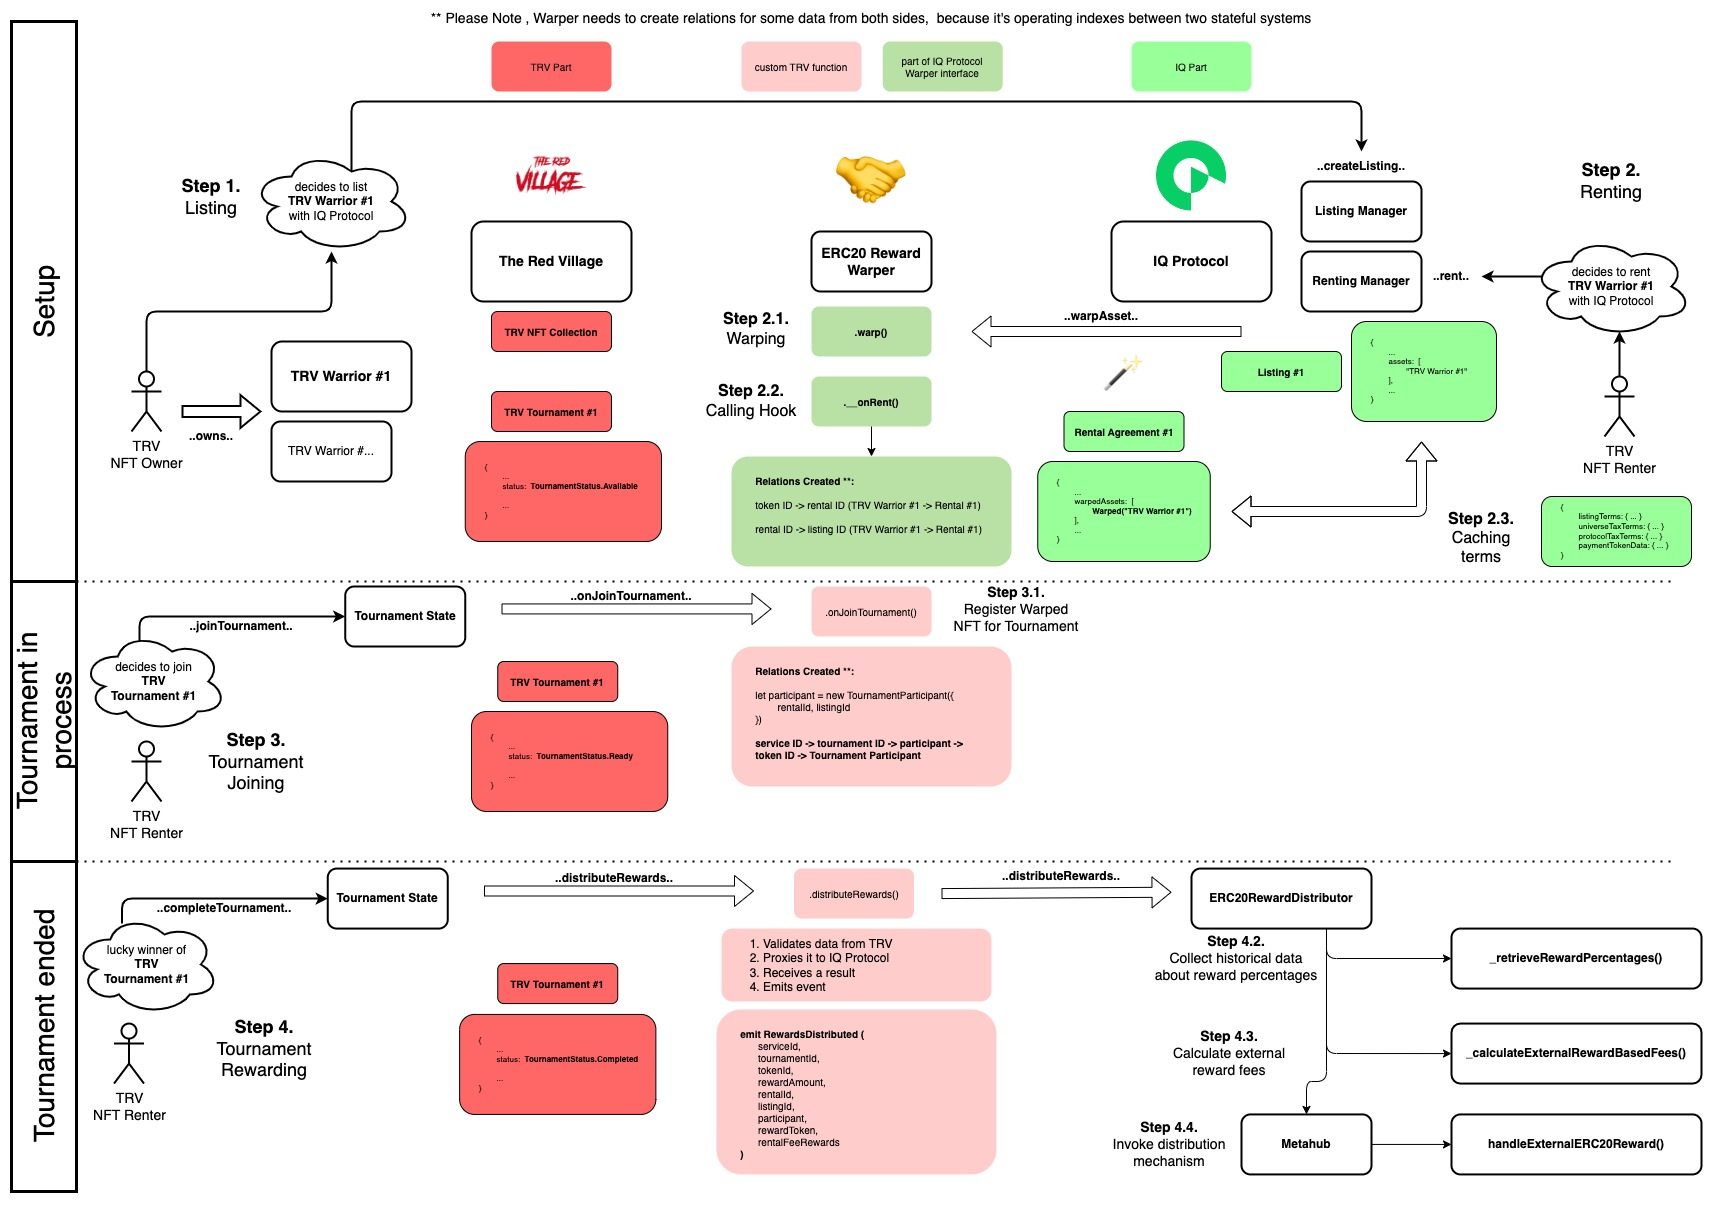
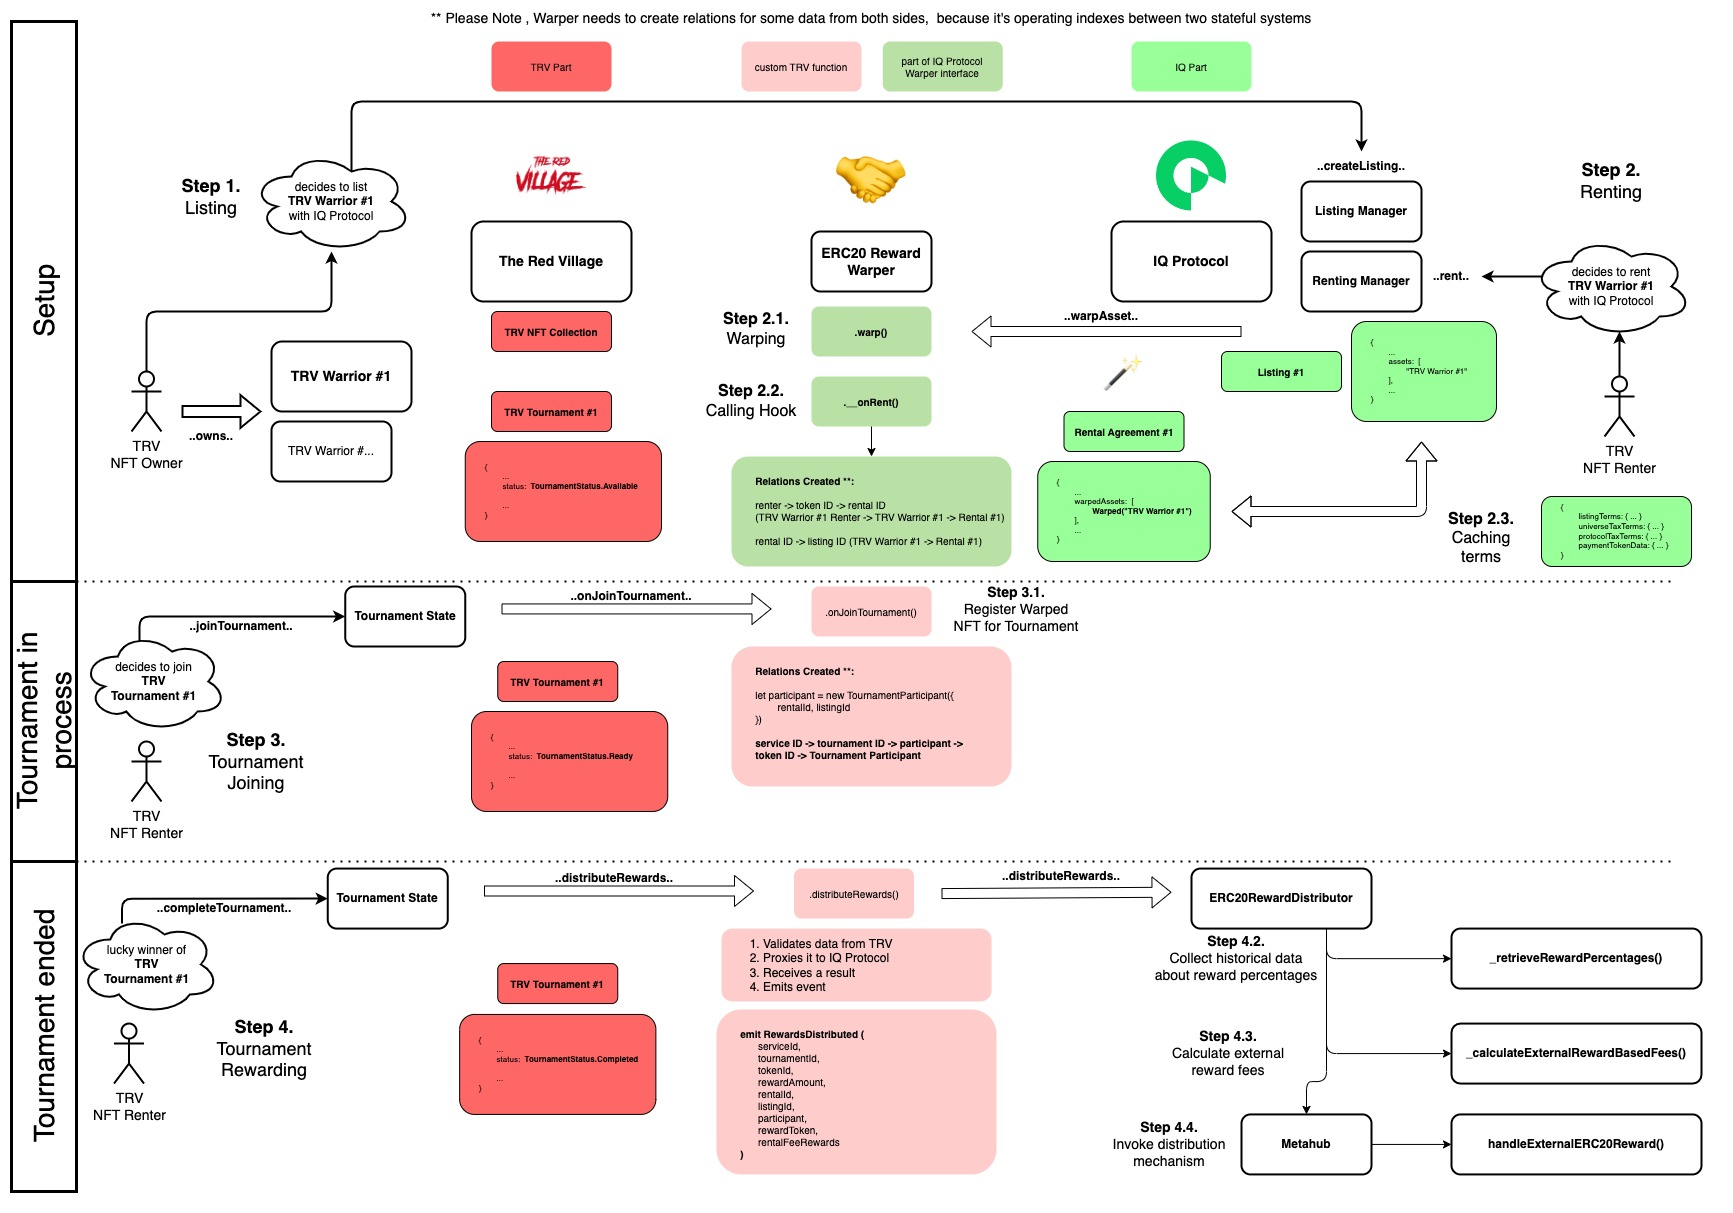
feat: integrated with new IRentingHookMechanics

diff --git a/test/unit/erc20-reward-warper/effects/on-rent.ts b/test/unit/erc20-reward-warper/effects/on-rent.ts
@@ -206,13 +206,7 @@ export function shouldBehaveLikeOnRent(): void {
       });
 
       it('reverts', async () => {
-        const callTx = erc20RewardWarper.__onRent(
-          GLOBAL_RENTAL_ID,
-          GLOBAL_TOKEN_ID,
-          BigNumber.from(0),
-          emptyRentalAgreement,
-          emptyRentalEarnings,
-        );
+        const callTx = erc20RewardWarper.__onRent(GLOBAL_RENTAL_ID, emptyRentalAgreement, emptyRentalEarnings);
 
         await expect(callTx).to.be.revertedWith(`CallerIsNotMetahub()`);
       });
@@ -227,34 +221,21 @@ export function shouldBehaveLikeOnRent(): void {
         rentalAgreement.agreementTerms.universeTaxTerms = makeTaxTermsFixedRate(GLOBAL_UNIVERSE_TAX_RATE);
         rentalAgreement.agreementTerms.protocolTaxTerms = makeTaxTermsFixedRate(GLOBAL_PROTOCOL_TAX_RATE);
 
-        erc20RewardWarperMock.__onRent
-          .whenCalledWith(
-            GLOBAL_RENTAL_ID,
-            GLOBAL_TOKEN_ID,
-            RENT_PRICE.mul(GLOBAL_RENTAL_PERIOD),
-            rentalAgreement,
-            rentalEarnings,
-          )
-          .returns({
-            success: true,
-            data: '',
-          });
+        erc20RewardWarperMock.__onRent.whenCalledWith(GLOBAL_RENTAL_ID, rentalAgreement, rentalEarnings).returns({
+          success: true,
+          data: '',
+        });
 
-        erc20RewardWarperMock.getTokenRental.whenCalledWith(GLOBAL_TOKEN_ID).returns(GLOBAL_RENTAL_ID);
+        erc20RewardWarperMock.getTokenRental.whenCalledWith(renter.address, GLOBAL_TOKEN_ID).returns(GLOBAL_RENTAL_ID);
         erc20RewardWarperMock.getRentalListing.whenCalledWith(GLOBAL_RENTAL_ID).returns(GLOBAL_LISTING_ID);
       });
 
       it('registers linking between token id, rental id and listing id', async () => {
         const onRentHookTx = erc20RewardWarperMock
           .connect(metahubMockAddress)
-          .__onRent(
-            GLOBAL_RENTAL_ID,
-            GLOBAL_TOKEN_ID,
-            RENT_PRICE.mul(GLOBAL_RENTAL_PERIOD),
-            rentalAgreement,
-            rentalEarnings,
-          );
-        const rentalId = await erc20RewardWarperMock.connect(stranger).getTokenRental(GLOBAL_TOKEN_ID);
+          .__onRent(GLOBAL_RENTAL_ID, rentalAgreement, rentalEarnings);
+
+        const rentalId = await erc20RewardWarperMock.connect(stranger).getTokenRental(renter.address, GLOBAL_TOKEN_ID);
         const listingId = await erc20RewardWarperMock.connect(stranger).getRentalListing(rentalId);
 
         await expect(onRentHookTx).to.be.fulfilled;
@@ -265,34 +246,20 @@ export function shouldBehaveLikeOnRent(): void {
 
     context('When using `FIXED_PRICE_WITH_REWARDS` listing strategy', () => {
       beforeEach(function () {
-        erc20RewardWarperMock.__onRent
-          .whenCalledWith(
-            GLOBAL_RENTAL_ID,
-            GLOBAL_TOKEN_ID,
-            RENT_PRICE.mul(GLOBAL_RENTAL_PERIOD),
-            rentalAgreement,
-            rentalEarnings,
-          )
-          .returns({
-            success: true,
-            data: '',
-          });
+        erc20RewardWarperMock.__onRent.whenCalledWith(GLOBAL_RENTAL_ID, rentalAgreement, rentalEarnings).returns({
+          success: true,
+          data: '',
+        });
 
-        erc20RewardWarperMock.getTokenRental.whenCalledWith(GLOBAL_TOKEN_ID).returns(GLOBAL_RENTAL_ID);
+        erc20RewardWarperMock.getTokenRental.whenCalledWith(renter.address, GLOBAL_TOKEN_ID).returns(GLOBAL_RENTAL_ID);
         erc20RewardWarperMock.getRentalListing.whenCalledWith(GLOBAL_RENTAL_ID).returns(GLOBAL_LISTING_ID);
       });
 
       it('registers linking between token id, rental id and listing id', async () => {
         const onRentHookTx = erc20RewardWarperMock
           .connect(metahubMockAddress)
-          .__onRent(
-            GLOBAL_RENTAL_ID,
-            GLOBAL_TOKEN_ID,
-            RENT_PRICE.mul(GLOBAL_RENTAL_PERIOD),
-            rentalAgreement,
-            rentalEarnings,
-          );
-        const rentalId = await erc20RewardWarperMock.connect(stranger).getTokenRental(GLOBAL_TOKEN_ID);
+          .__onRent(GLOBAL_RENTAL_ID, rentalAgreement, rentalEarnings);
+        const rentalId = await erc20RewardWarperMock.connect(stranger).getTokenRental(renter.address, GLOBAL_TOKEN_ID);
         const listingId = await erc20RewardWarperMock.connect(stranger).getRentalListing(rentalId);
 
         await expect(onRentHookTx).to.be.fulfilled;
